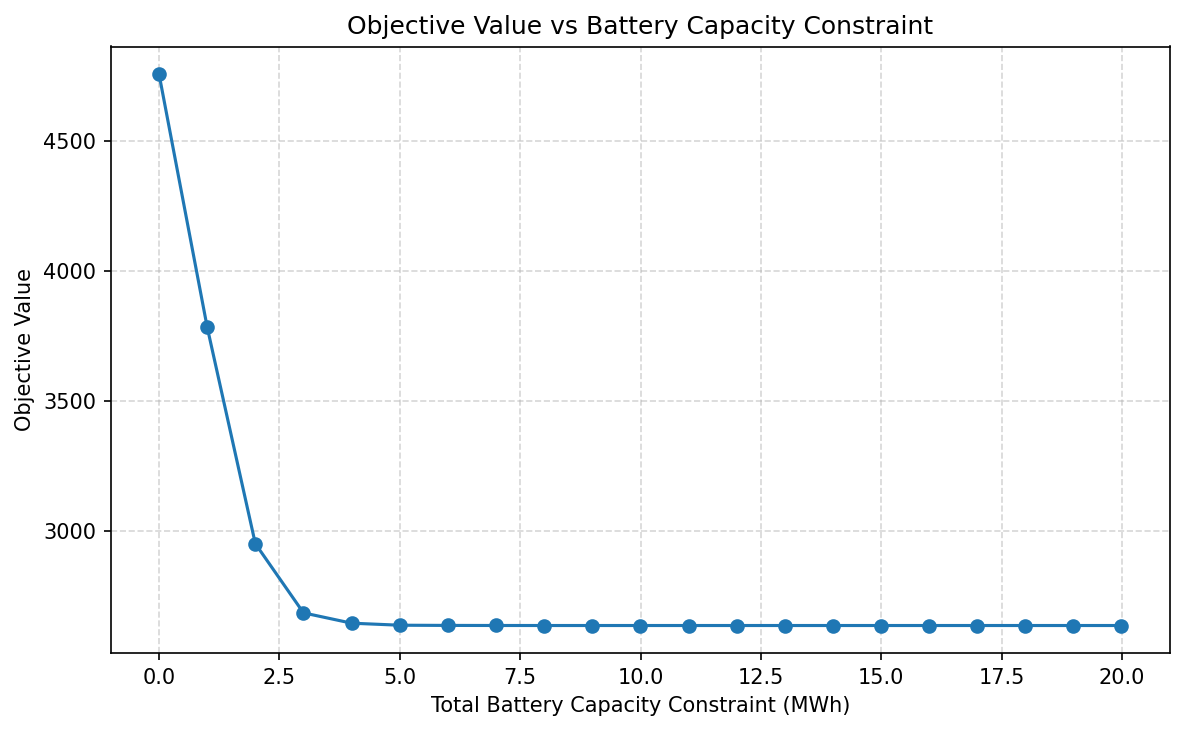
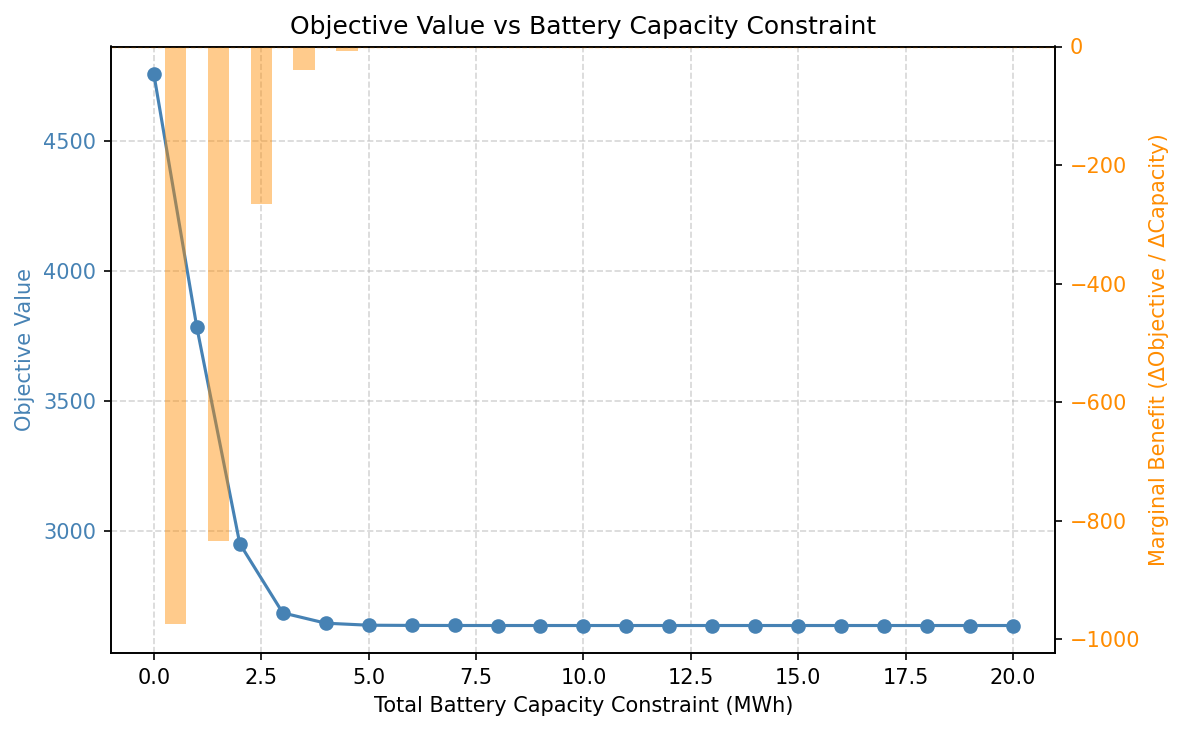
made more plotting utilities for our final presentation

diff --git a/code/Result Visualization/result_functions.py b/code/Result Visualization/result_functions.py
@@ -41,13 +41,69 @@ def plot_objective_vs_capacity(results_list,OUT_PATH):
     capacities_sorted, objectives_sorted = zip(*pairs)
 
     fig, ax = plt.subplots(figsize=(8, 5))
-    ax.plot(capacities_sorted, objectives_sorted, marker='o', linewidth=1.5)
+    ax.plot(capacities_sorted, objectives_sorted, marker='o', linewidth=1.5, color='steelblue', label='Objective')
     ax.set_xlabel('Total Battery Capacity Constraint (MWh)')
-    ax.set_ylabel('Objective Value')
+    ax.set_ylabel('Objective Value', color='steelblue')
+    ax.tick_params(axis='y', labelcolor='steelblue')
+
+    caps = list(capacities_sorted)
+    objs = list(objectives_sorted)
+    if len(caps) > 1:
+        ax2 = ax.twinx()
+        mid_caps = [(caps[k] + caps[k + 1]) / 2 for k in range(len(caps) - 1)]
+        bar_widths = [(caps[k + 1] - caps[k]) * 0.5 for k in range(len(caps) - 1)]
+        marginals = [(objs[k + 1] - objs[k]) / (caps[k + 1] - caps[k]) for k in range(len(caps) - 1)]
+        ax2.bar(mid_caps, marginals, width=bar_widths, color='darkorange', alpha=0.45, label='Marginal Benefit')
+        ax2.set_ylabel('Marginal Benefit (ΔObjective / ΔCapacity)', color='darkorange')
+        ax2.tick_params(axis='y', labelcolor='darkorange')
+        ax2.axhline(0, color='darkorange', linewidth=0.6, linestyle='--')
+
     ax.set_title('Objective Value vs Battery Capacity Constraint')
     ax.grid(True, linestyle='--', alpha=0.5)
     plt.tight_layout()
     plt.savefig(OUT_PATH / 'objective_vs_capacity.png', dpi=150, bbox_inches='tight')
+    # plt.show()
+    plt.close()
+    return
+
+
+def plot_node_profit_by_capacity(results_list, OUT_PATH):
+    """Grouped bar chart: per-node profit for each capacity scenario.
+
+    Profit at each node = dot product of P^{batt}_{j,t}[node] with p_{i,t}[0]
+    (price time series). Positive values indicate net revenue; negative indicate net cost.
+
+    Args:
+        results_list: list of results dicts, one per JSON file for a given date.
+    """
+    sorted_results = sorted(results_list, key=lambda r: sum(r['variables']['e^{batt}_{j,max}']))
+    total_caps = [sum(r['variables']['e^{batt}_{j,max}']) for r in sorted_results]
+    n_scenarios = len(sorted_results)
+    n_nodes = len(sorted_results[0]['variables']['e^{batt}_{j,max}'])
+    nodes = np.arange(n_nodes)
+
+    bar_width = 0.8 / n_scenarios
+    fig, ax = plt.subplots(figsize=(max(10, n_nodes * 1.5), 6))
+
+    for i, (r, total) in enumerate(zip(sorted_results, total_caps)):
+        prices = np.array(r['variables']['p_{i,t}'][0], dtype=float)
+        profits = [
+            -1*float(np.dot(np.array(r['variables']['P^{batt}_{j,t}'][node], dtype=float), prices))
+            for node in range(n_nodes)
+        ]
+        offsets = nodes + (i - n_scenarios / 2 + 0.5) * bar_width
+        ax.bar(offsets, profits, width=bar_width, label=f'Cap = {total:.1f}')
+
+    ax.axhline(0, color='black', linewidth=0.8, linestyle='--')
+    ax.set_xlabel('Node')
+    ax.set_ylabel('Profit ($)')
+    ax.set_title('Battery Profit by Node')
+    ax.set_xticks(nodes)
+    ax.set_xticklabels([str(i) for i in range(n_nodes)])
+    ax.legend(title='Total Capacity (MWh)', bbox_to_anchor=(1.05, 1), loc='upper left')
+    ax.grid(axis='y', linestyle='--', alpha=0.5)
+    plt.tight_layout()
+    plt.savefig(OUT_PATH / 'node_profit_by_capacity.png', dpi=150, bbox_inches='tight')
     # plt.show()
     plt.close()
     return
@@ -373,21 +429,147 @@ def plot_node_dispatch_by_capacity(results_list, node, OUT_PATH, normalize=False
     return
 
 
+def plot_node_slack_by_capacity(results_list, node, OUT_PATH, normalize=False):
+    """Line chart of slack capacity over time for a single node/element, one line per capacity scenario.
+
+    Args:
+        results_list: list of results dicts, one per JSON file for a given date.
+        node: integer index into delta^P_{i,t} (assumed to match node/element ordering).
+        OUT_PATH: folder in which to save the figure.
+        normalize: if True, slack is shown as % of that node's battery capacity.
+    """
+    sorted_results = sorted(results_list, key=lambda r: sum(r['variables']['e^{batt}_{j,max}']))
+
+    fig, ax = plt.subplots(figsize=(10, 5))
+    for r in sorted_results:
+        total_cap = sum(r['variables']['e^{batt}_{j,max}'])
+        slack = np.array(r['variables']['delta^P_{i,t}'][node], dtype=float)
+        if normalize:
+            node_cap = r['variables']['e^{batt}_{j,max}'][node]
+            if node_cap > 0:
+                slack = slack / node_cap * 100.0
+        ax.plot(range(len(slack)), slack, marker='o', markersize=3,
+                linewidth=1.5, label=f'Cap = {total_cap:.1f}')
+
+    ax.axhline(0, color='black', linewidth=0.8, linestyle='--')
+    ax.set_xlabel('Hour')
+    ax.set_ylabel('% of Node Capacity' if normalize else 'Slack Capacity (MW)')
+    title = f'Slack Capacity at Node {node} Across Capacity Scenarios'
+    if normalize:
+        title += ' | Normalized by Node Capacity'
+    ax.set_title(title)
+    ax.legend(title='Total Capacity (MWh)', bbox_to_anchor=(1.05, 1), loc='upper left')
+    ax.grid(True, linestyle='--', alpha=0.5)
+    plt.tight_layout()
+    norm_suffix = '_norm' if normalize else ''
+    plt.savefig(OUT_PATH / f'node_{node}_slack_by_capacity{norm_suffix}.png', dpi=150, bbox_inches='tight')
+    # plt.show()
+    plt.close()
+    return
+
+
+def plot_slack_3d(results_dict, OUT_PATH, normalize=False, filter_small_nodes=False):
+    """3D bar chart of slack capacity by node/element (x) and hour (y), value on z-axis.
+
+    Args:
+        results_dict: single results dict for the scenario to visualise.
+        normalize: if True, each bar shows slack as % of that node's battery capacity.
+        filter_small_nodes: if True, omit nodes whose battery capacity is <0.1% of total.
+    """
+    node_caps = np.array(results_dict['variables']['e^{batt}_{j,max}'])
+    total_cap = float(node_caps.sum())
+
+    slack = np.array(results_dict['variables']['delta^P_{i,t}'], dtype=float)  # (n_elements, n_hours)
+    n_elements, n_hours = slack.shape
+
+    if filter_small_nodes:
+        kept_nodes = [j for j in range(n_elements) if node_caps[j] / total_cap >= 0.001]
+    else:
+        kept_nodes = list(range(n_elements))
+
+    slack = slack[kept_nodes, :]
+    node_caps_kept = node_caps[kept_nodes]
+
+    if normalize:
+        for i, cap in enumerate(node_caps_kept):
+            if cap > 0:
+                slack[i, :] = slack[i, :] / cap * 100.0
+
+    max_val = np.abs(slack).max()
+    if max_val > 0:
+        slack[np.abs(slack) < 0.001 * max_val] = 0.0
+
+    n_kept = len(kept_nodes)
+    x_positions = np.arange(n_kept, dtype=float)
+    node_idx, hour_idx = np.meshgrid(x_positions, np.arange(n_hours), indexing='ij')
+    node_flat = node_idx.ravel()
+    hour_flat = hour_idx.ravel()
+    values_flat = slack.ravel()
+
+    dx = 0.6
+    dy = 0.6
+    dz = np.abs(values_flat)
+    z_bottoms = np.where(values_flat >= 0, 0.0, values_flat)
+    colors = ['steelblue' if v >= 0 else 'tomato' for v in values_flat]
+
+    fig = plt.figure(figsize=(14, 8))
+    ax = fig.add_subplot(111, projection='3d')
+    ax.bar3d(
+        node_flat - dx / 2,
+        hour_flat - dy / 2,
+        z_bottoms,
+        dx, dy, dz,
+        color=colors,
+        alpha=0.85,
+        zsort='average',
+    )
+
+    ax.set_xlabel('Node')
+    ax.set_ylabel('Hour')
+    zlabel = '% of Node Capacity' if normalize else 'Slack Capacity (MW)'
+    ax.set_zlabel(zlabel)
+    title_parts = ['Slack Capacity by Node and Hour']
+    if normalize:
+        title_parts.append('Normalized by Node Capacity')
+    if filter_small_nodes:
+        title_parts.append('Nodes <0.1% Filtered')
+    ax.set_title(' | '.join(title_parts))
+    ax.set_xticks(x_positions)
+    ax.set_xticklabels([str(j) for j in kept_nodes])
+    ax.set_yticks(range(0, n_hours, max(1, n_hours // 12)))
+
+    legend_elements = [
+        Patch(facecolor='steelblue', label='Positive (+)'),
+        Patch(facecolor='tomato', label='Negative (−)'),
+    ]
+    ax.legend(handles=legend_elements, loc='upper left')
+
+    suffix = ('_norm' if normalize else '') + ('_filtered' if filter_small_nodes else '')
+    plt.savefig(OUT_PATH / f'slack_3d_cap{total_cap:.0f}MWh{suffix}.png', dpi=150, bbox_inches='tight', pad_inches=0.5)
+    # plt.show()
+    plt.close()
+    return
+
+
 def main(date_string):
     OUT_PATH = FIGURE_PATH / date_string
     create_output_folder(OUT_PATH)
     json_files = find_files_by_date(date_string)
     results_list = []
+    
     for file in json_files:
         results_dict = get_results_dict(file)
-        # plot_battery_dispatch_3d(results_dict,OUT_PATH,normalize=False,filter_small_nodes=False)
+        plot_battery_dispatch_3d(results_dict,OUT_PATH,normalize=False,filter_small_nodes=False)
         plot_transmission_congestion(results_dict,OUT_PATH,filter_small_nodes=True)
-    #     results_list.append(results_dict)
-    # interestNode = 9
-    # plot_node_dispatch_by_capacity(results_list, interestNode, OUT_PATH)
+        plot_slack_3d(results_dict, OUT_PATH, normalize=False, filter_small_nodes=False)
+        results_list.append(results_dict)
+    interestNode = 9
+    plot_node_dispatch_by_capacity(results_list, interestNode, OUT_PATH)
+    plot_node_slack_by_capacity(results_list, interestNode, OUT_PATH, normalize=False)
     
-    # plot_objective_vs_capacity(results_list,OUT_PATH)
-    # plot_capacity_allocation(results_list,OUT_PATH)
+    plot_objective_vs_capacity(results_list,OUT_PATH)
+    plot_capacity_allocation(results_list,OUT_PATH)
+    plot_node_profit_by_capacity(results_list, OUT_PATH)
     return
 
 def find_files_by_date(date_str):